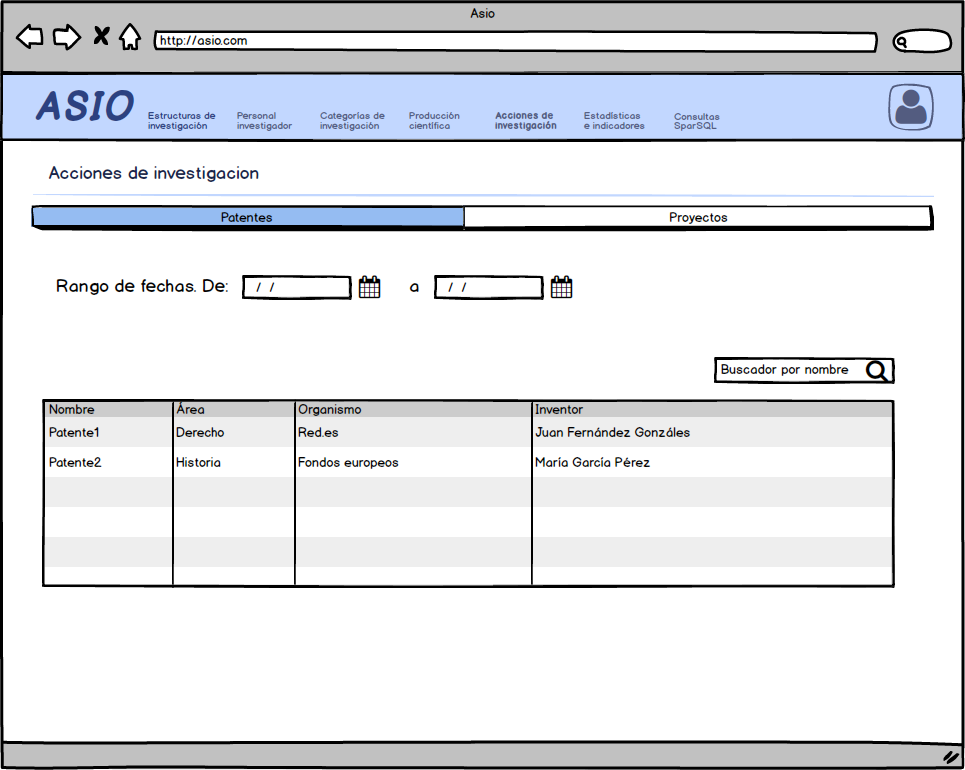
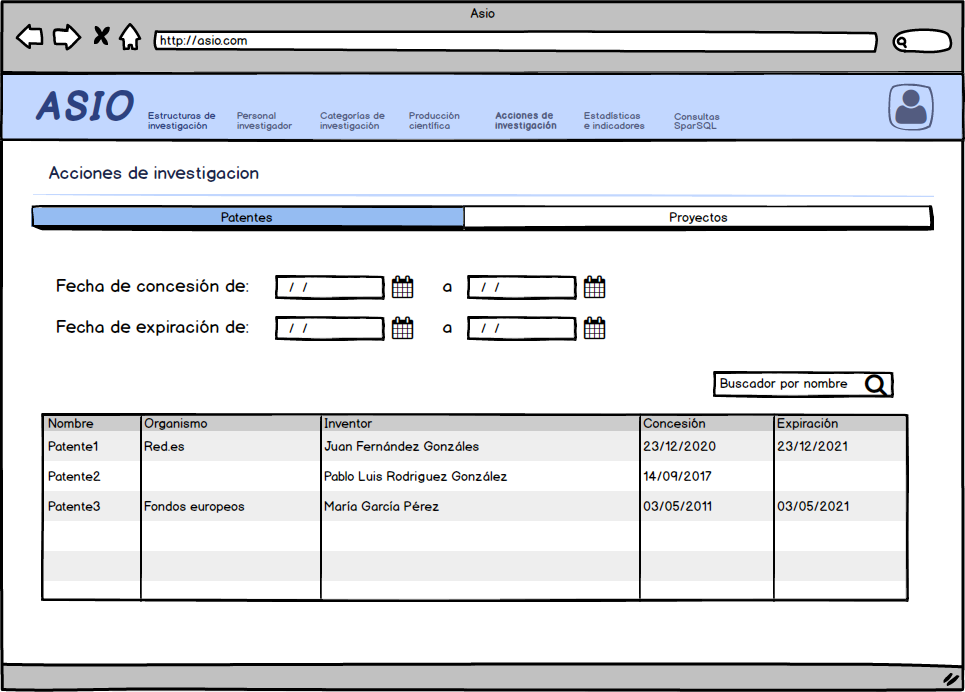
[SEMANTMURC-504] Cambiar pantallas de acciones de investigación
* Detalle de estructuras de investigación:

  *
Producción científica: Añadido select con los tipos -> Se muestra toda la producción científica excepto eventos.
  *
Proyectos: Cambiada tabla y añadido fecha como rango, tipo conpetitivo o no, nivel
 *
Acciones de investigación:

  *
Patentes: Cambiada tabla y filtros por fechas
  *
Proyectos: Cambiada tabla y filtros, ahora son nombre, fechas, competitivo o no y nivel.

Changed region(s): [[0.0, 0.0, 1.0, 0.8801], [0.0, 0.9408, 1.0, 1.0], [0.0622, 0.4552, 0.2487, 0.4855]]

diff --git a/00-Análisis/Diseño de pantallas/Categorías y buscador.md b/00-Análisis/Diseño de pantallas/Categorías y buscador.md
@@ -148,6 +148,10 @@ Pulsando sobre un centro de investigación en la pantalla de esta categoría, la
 
 
 
+Se mostrará toda la producción científica (Ver sección) excepto Eventos.
+
+
+
 ![Detalle de estructura de investigación - producción científica](./images/mocks/categorias/detalle-estructuras-de-investigación-produccion.png)
 
 
@@ -197,7 +201,7 @@ Se dividirá en dos secciones, una para patentes y otra para proyectos.
 
 
 
-La tabla podrá ser filtrada por año y por nombre.
+La tabla podrá ser filtrada por fechas y por nombre.
 
 
 
@@ -207,7 +211,7 @@ La tabla podrá ser filtrada por año y por nombre.
 
 ### Proyectos
 
-En esta sección de acciones de transferencia se podrán ver los proyectos filtrados por nombre y por ámbito.
+En esta sección de acciones de transferencia se podrán ver los proyectos filtrados por nombre, fechas, competitivo o no y nivel.
 
 ![Acciones de investigación - proyectos](./images/mocks/categorias/acciones-de-investigacion-proyectos.png)
 
